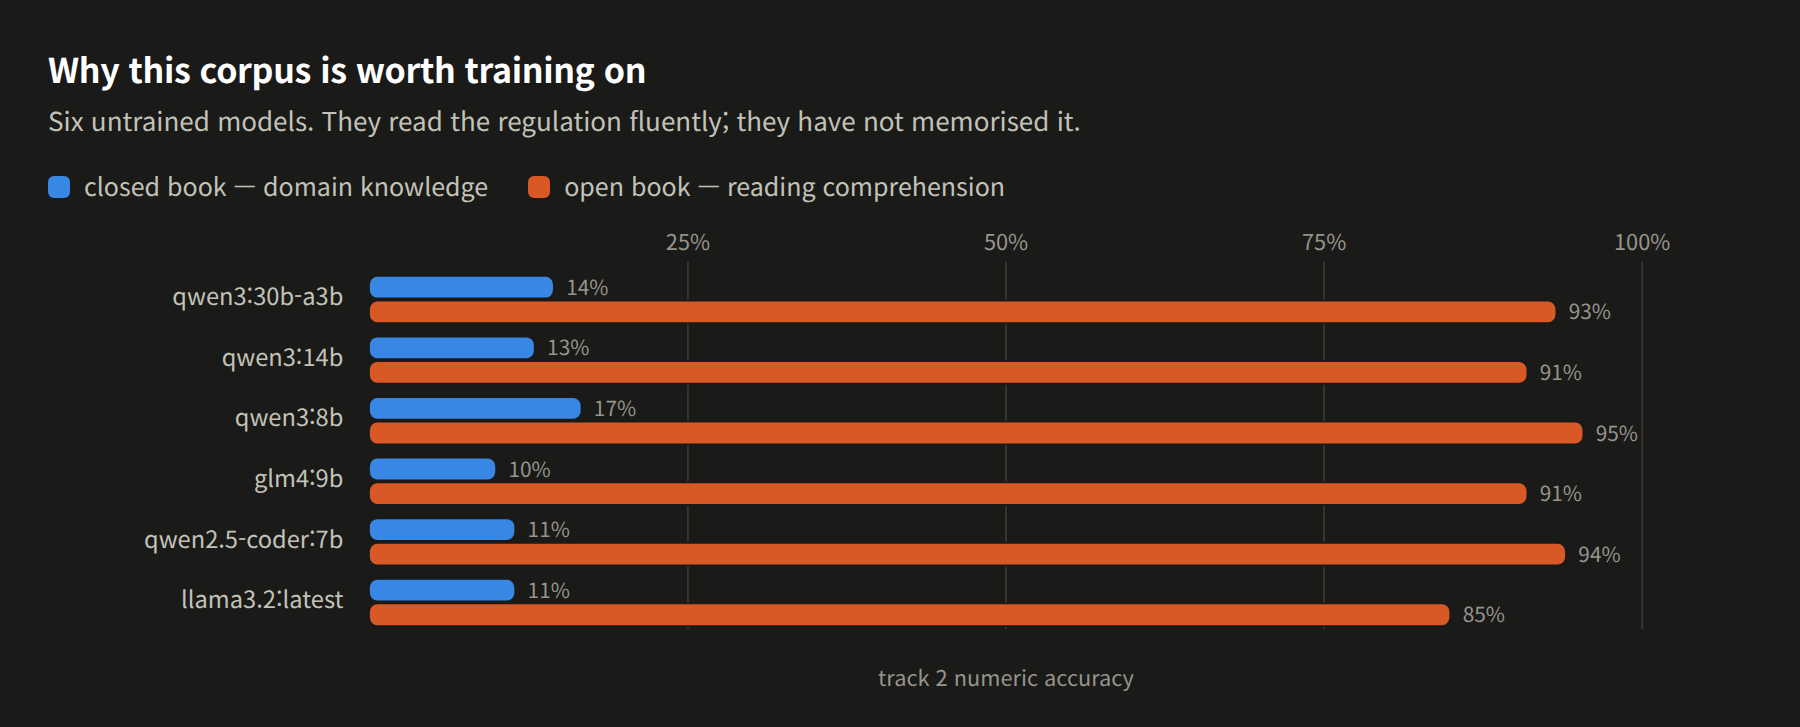
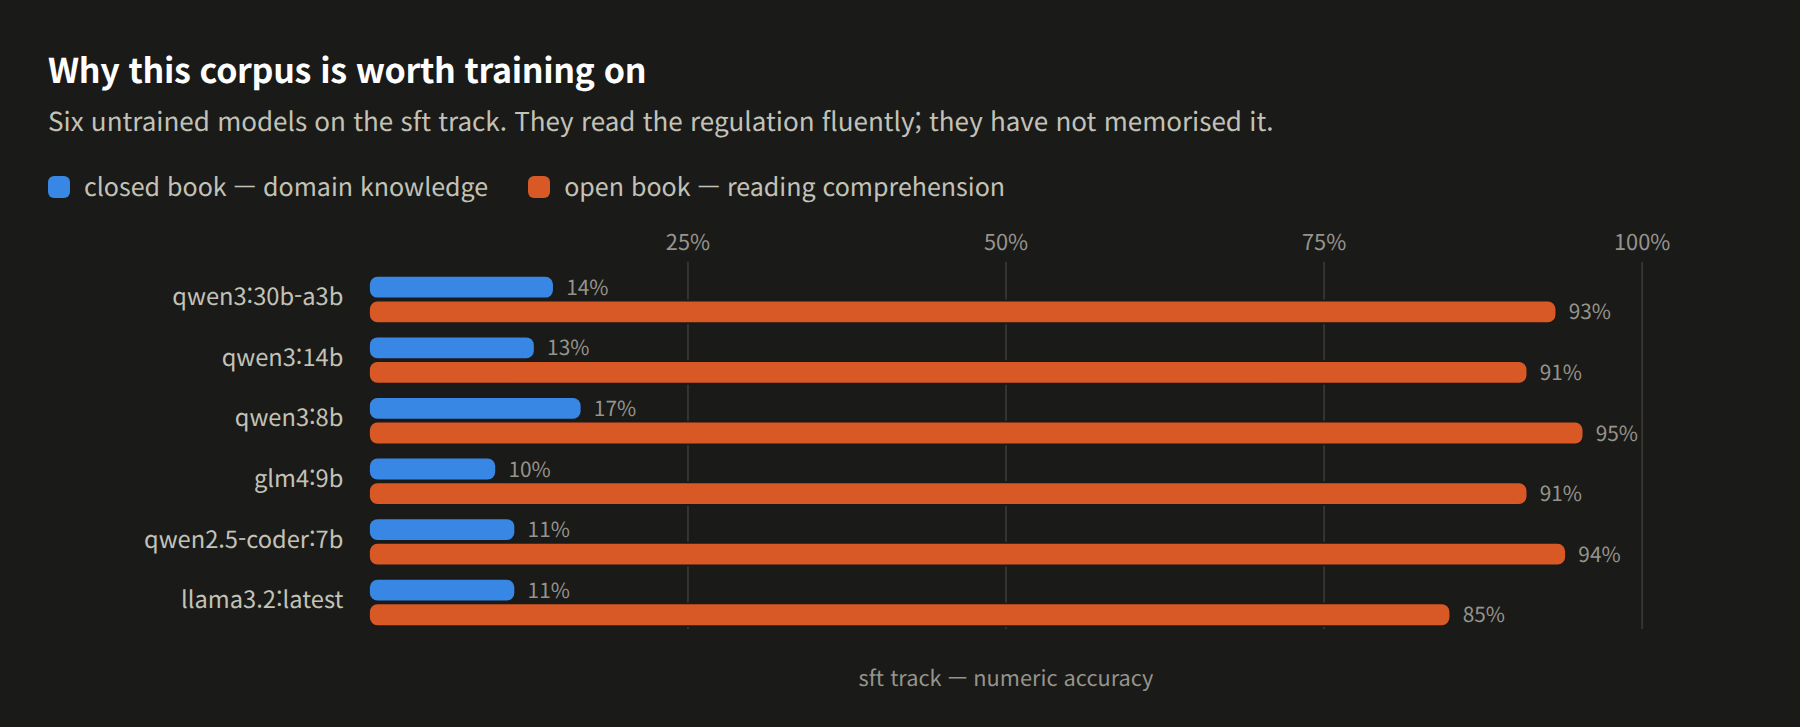
name the tracks instead of numbering them, in the docs and the charts

Changed region(s): [[0.1556, 0.1513, 0.7156, 0.1816], [0.4667, 0.9078, 0.6533, 0.9684]]

diff --git a/benchmark/kcbench/common.py b/benchmark/kcbench/common.py
@@ -34,20 +34,20 @@ BENCHMARK_NAME = "kcbench"
 BENCHMARK_VERSION = "v2"
 SCHEMA_VERSION = "kcbench-item-v2"
 
-# Track identity. The numbered tracks are numbered by the training stage each one
-# diagnoses -- 1 pre-training, 2 instruction tuning, 3 vision -- which is useful
-# to know and invisible in a bare number, so every track also answers to the name
-# its own items carry in their "track" field. Aliases resolve to the number
-# before anything else sees them: run files key on "1"/"2"/"3", and a run scored
-# as "sft" has to stay comparable with one scored as "2".
+# Track identity. Tracks are named for what they test, which is how every public
+# benchmark names its tasks. Three of them were numbered first -- 1 pre-training,
+# 2 instruction tuning, 3 vision -- and the numbers survive as the storage key:
+# run files are written with "1"/"2"/"3", so a run scored as "sft" has to stay
+# comparable with one scored as "2". Aliases resolve to the number on the way in
+# and the name comes back out in the logs.
 TRACK_NAMES: Dict[str, str] = {"1": "dapt", "2": "sft", "3": "vlm"}
 TRACK_ALIASES: Dict[str, str] = {
     "dapt": "1", "track1": "1", "1": "1",
     "sft": "2", "track2": "2", "2": "2",
     "vlm": "3", "track3": "3", "3": "3",
 }
-TRACKS_HELP = ("comma-separated. Numbered tracks answer to their name too: "
-               "1/dapt, 2/sft, 3/vlm")
+TRACKS_HELP = ("comma-separated names: dapt, sft, vlm. The numbers 1, 2 and 3 "
+               "still work for them")
 
 
 def resolve_tracks(spec: str) -> List[str]:
@@ -61,9 +61,8 @@ def resolve_tracks(spec: str) -> List[str]:
 
 
 def track_label(track: str) -> str:
-    """How a track is named in logs: the number, plus the name when it has one."""
-    name = TRACK_NAMES.get(track)
-    return f"{track} ({name})" if name else track
+    """How a track is named in logs and messages: by name, never by number."""
+    return TRACK_NAMES.get(track, track)
 
 
 DEFAULTS: Dict[str, Any] = {

diff --git a/benchmark/kcbench/run_matrix.py b/benchmark/kcbench/run_matrix.py
@@ -176,7 +176,7 @@ def main() -> int:
     ap.add_argument("--book", choices=["open", "closed", "both"],
                     help="open book gives the clause, closed book does not (default both)")
     ap.add_argument("--tracks", default="2",
-                    help="tracks to run (default 2/sft); names work too")
+                    help="tracks to run by name (default sft)")
     ap.add_argument("--lang", choices=["ko", "en"], default="ko")
     ap.add_argument("--repeats", type=int, help="samples per item")
     ap.add_argument("--limit", type=int, help="first N items per track")

diff --git a/benchmark/kcbench/build_all.py b/benchmark/kcbench/build_all.py
@@ -60,7 +60,7 @@ def main() -> int:
     add_common_args(ap)
     ap.add_argument("--fraction", type=float, help="holdout share per category")
     ap.add_argument("--tracks", default="1,2,3",
-                    help="tracks to build; names work too (dapt, sft, vlm)")
+                    help="tracks to build by name: dapt, sft, vlm")
     ap.add_argument("--mirror", metavar="FILE",
                     help="where to mirror holdout.json for run_corpus.py")
     ap.add_argument("--skip-holdout", action="store_true",

diff --git a/README.md b/README.md
@@ -27,7 +27,7 @@ Four charts, and between them they tell you what the benchmark is for.
 
 <picture>
   <source media="(prefers-color-scheme: dark)" srcset="doc/closed-vs-open-dark.png">
-  <img alt="Track 2 numeric accuracy for six untrained models, closed book versus open book. Open book every model scores above 84 percent; closed book none clears 17 percent." src="doc/closed-vs-open-light.png">
+  <img alt="Numeric accuracy on the sft track for six untrained models, closed book versus open book. Open book every model scores above 84 percent; closed book none clears 17 percent." src="doc/closed-vs-open-light.png">
 </picture>
 
 **Start here: is this corpus even worth training on?** Six models that never saw
@@ -37,8 +37,8 @@ they have not memorised any of it. That gap is the room fine-tuning has to work
 in, and it is why the closed-book number is the one this benchmark reports.
 
 <picture>
-  <source media="(prefers-color-scheme: dark)" srcset="doc/track1-perplexity-dark.png">
-  <img alt="Perplexity by document category, base versus after DAPT. Every one of the thirteen categories fell, the overall figure from 7.589 to 4.553." src="doc/track1-perplexity-light.png">
+  <source media="(prefers-color-scheme: dark)" srcset="doc/dapt-perplexity-dark.png">
+  <img alt="Perplexity by document category, base versus after DAPT. Every one of the thirteen categories fell, the overall figure from 7.589 to 4.553." src="doc/dapt-perplexity-light.png">
 </picture>
 
 **Did training move anything?** Perplexity on 5,381 held-out chunks fell 40%,
@@ -107,30 +107,29 @@ jointly present.
 ## Tracks
 
 A track is one self-contained set of items with its own answer type and its own
-score — the sense the word carries in TREC. Each one answers a different
-question, so they are read separately, never averaged into a single figure.
+score — the sense the word carries in TREC. Each answers a different question, so
+they are read separately, never averaged into a single figure. Tracks are named
+for what they test:
 
-The first three are numbered for the training stage they diagnose, and each also
-answers to that stage's name on the command line. `--tracks sft` and
-`--tracks 2` do the same thing; the name is there so you can tell from the
-command what you are measuring.
-
-| Track | Name | Items | Answer type | What it measures |
-|---|---|---:|---|---|
-| 1 | `dapt` | 5,381 chunks | perplexity | fit to held-out text — did pre-training take |
-| 2 | `sft` | 395 | numeric 320, nameset 75 | held-out QA — does it generalise to unseen regulation |
-| 3 | `vlm` | 10 | nameset 6, mapping 4 | vision: element types from renders, model-to-photo mapping |
-| — | `probe` | 400 | numeric 320, nameset 80 | training-side QA — did it acquire what it was taught. Diagnostic only |
-| — | `uc1_safety` | 157 | numeric 85, nameset 72 | safety regulation lookup |
-| — | `uc2_rebar_spec` | 150 | numeric 150 | specification limits and tolerances |
-| — | `uc3_bim_site` | 39 | label 39 | render and site photo judged together |
-| — | `uc4_faithfulness` | 160 | faithfulness 160 | abstention when the passage does not support an answer |
-| — | `uc5_incident` | 118 | nameset 118 | causes and controls from incident reports |
+| Track | Items | Answer type | What it measures |
+|---|---:|---|---|
+| `dapt` | 5,381 chunks | perplexity | fit to held-out text — did pre-training take |
+| `sft` | 395 | numeric 320, nameset 75 | held-out QA — does it generalise to unseen regulation |
+| `vlm` | 10 | nameset 6, mapping 4 | vision: element types from renders, model-to-photo mapping |
+| `probe` | 400 | numeric 320, nameset 80 | training-side QA — did it acquire what it was taught. Diagnostic only |
+| `uc1_safety` | 157 | numeric 85, nameset 72 | safety regulation lookup |
+| `uc2_rebar_spec` | 150 | numeric 150 | specification limits and tolerances |
+| `uc3_bim_site` | 39 | label 39 | render and site photo judged together |
+| `uc4_faithfulness` | 160 | faithfulness 160 | abstention when the passage does not support an answer |
+| `uc5_incident` | 118 | nameset 118 | causes and controls from incident reports |
 
 `--tracks uc` runs every use-case track. Use-case tracks are registered in
-`config.json`, so adding one takes a config entry rather than a code change,
-and they were never numbered — the numbering only ever meant "which training
-stage does this diagnose", which is a question the use-case tracks do not ask.
+`config.json`, so adding one takes a config entry rather than a code change.
+
+`dapt`, `sft` and `vlm` were originally numbered 1, 2 and 3, for the training
+stage each diagnoses. The numbers are still accepted — `--tracks 2` is `--tracks
+sft` — and run files still key on them, so scores from older runs stay
+comparable. Nothing else needs them.
 
 Closed book withholds the passage, so the item tests what the weights hold.
 Open book supplies it, so the item tests reading comprehension. Both are run
@@ -151,12 +150,12 @@ Python 3.11 or newer.
 
 ```
 pip install requests                        # building and scoring
-pip install torch transformers              # track 1 perplexity
+pip install torch transformers              # dapt perplexity
 pip install torch transformers peft         # fine-tuning under training/
 ```
 
-Scoring goes through an [Ollama](https://ollama.com) server for tracks 2 (sft),
-3 (vlm) and the use-case tracks. Track 1 loads the checkpoint locally instead, because
+Scoring goes through an [Ollama](https://ollama.com) server for `sft`, `vlm`
+and the use-case tracks. `dapt` loads the checkpoint locally instead, because
 perplexity needs logprobs over a fixed text rather than generation.
 
 ```
@@ -183,7 +182,7 @@ Score a model, once per book setting:
 ```
 python cb.py eval -m qwen3:8b       --tag base  --tracks sft --closed-book
 python cb.py eval -m my-finetune:v1 --tag ft-v1 --tracks sft --closed-book
-python cb.py ppl  -m ./out/my-dapt  --tag ft-v1-ppl        # track 1 (dapt)
+python cb.py ppl  -m ./out/my-dapt  --tag ft-v1-ppl        # the dapt track
 ```
 
 Compare them. This is the step that produces the answer:
@@ -227,7 +226,7 @@ benchmark/
     make_train_split.py  write the training split, holdout excluded
     verify_provenance.py prove where each item came from and that nothing trains on it
     evaluate.py          score a model over the generation tracks
-    perplexity.py        score track 1 locally
+    perplexity.py        score the dapt track locally
     compare.py           compare two runs, with a bootstrap significance test
     run_matrix.py        score several models and tabulate
     triage_items.py      pick the items a human should look at
@@ -278,17 +277,17 @@ prompt as well (`question_en`, and `answer_en` for numeric units), so
 
 | Metric | Items | Score |
 |---|---:|---:|
-| track 1 perplexity | 5,381 chunks | 7.589 |
-| track 2 numeric, closed book | 320 | 0.166 |
-| track 2 nameset F1, closed book | 75 | 0.000 |
-| track 2 numeric, open book | 320 | 0.953 |
-| track 2 nameset F1, open book | 75 | 0.582 |
+| `dapt` perplexity | 5,381 chunks | 7.589 |
+| `sft` numeric, closed book | 320 | 0.166 |
+| `sft` nameset F1, closed book | 75 | 0.000 |
+| `sft` numeric, open book | 320 | 0.953 |
+| `sft` nameset F1, open book | 75 | 0.582 |
 | probe numeric, closed book | 320 | 0.169 |
 | probe nameset F1, closed book | 80 | 0.000 |
 
 The closed-open gap is the corpus doing its job: the model reads these
 documents competently and knows almost nothing in them from memory. Probe and
-track 2 sit at the same number before training, which is what should happen —
+`sft` sit at the same number before training, which is what should happen —
 nothing has been learned yet, so trained-on and held-out documents are equally
 unfamiliar. They are expected to separate afterwards, and how they separate is
 the diagnosis.
@@ -297,7 +296,7 @@ After stage 1 (domain-adaptive pre-training, 836 steps, LoRA on Qwen3-8B):
 
 | Metric | Base | After DAPT | Change | Items |
 |---|---:|---:|---:|---:|
-| track 1 perplexity | 7.589 | 4.553 | -40.0% | 5,381 chunks |
+| `dapt` perplexity | 7.589 | 4.553 | -40.0% | 5,381 chunks |
 | probe numeric, closed book | 0.169 | 0.029 | -82.6% | 102 of 400 |
 | probe replies with no answer | 0.000 | 0.431 | — | 102 of 400 |
 
@@ -313,7 +312,7 @@ is what the two-stage design is for; scores for it will replace this table.
 Items are mined and verified by rule, not authored by domain experts. That
 makes the set cheap to rebuild and easy to audit — `cb.py verify`
 traces every item to its source span — but it also means the questions test
-recall of stated facts rather than judgement. Track 3 is small (10 items) and
+recall of stated facts rather than judgement. `vlm` is small (10 items) and
 should be read as a smoke test rather than a measurement. The use-case tracks
 range from 39 to 160 items, which is in line with per-task sizes in published
 benchmarks but still small enough that single-digit differences are noise;
@@ -321,7 +320,7 @@ benchmarks but still small enough that single-digit differences are noise;
 assumed.
 
 The corpus itself is not distributed. Source documents are Korean government
-standards and regulations, and the training split and track 1 chunks are
+standards and regulations, and the training split and `dapt` chunks are
 derived closely enough from them that redistribution is a licensing question
 rather than a technical one. The evaluation sets are included: they hold mined
 question-answer pairs and citations, not the source text.

diff --git a/benchmark/README.md b/benchmark/README.md
@@ -44,7 +44,7 @@ Build (`cb.py build` runs these in order):
 
 ```
 cb.py holdout      data/holdout.json              reserve the evaluation documents
-cb.py tracks       data/track{1,2,3}*.jsonl       mine items, record provenance
+cb.py tracks       data/track{1,2,3}*.jsonl       mine the dapt, sft and vlm items
 cb.py probe        data/probe_trained.jsonl       mine the training-side probe set
 cb.py usecases     data/uc*.jsonl                 use-case tracks from the config registry
 cb.py split        data/train/                    training split, holdout excluded
@@ -99,20 +99,20 @@ deleted once the track writes its score.
 
 ### Generalisation and acquisition
 
-Two sets, two questions. Track 2 is mined from held-out documents, so 75 percent
+Two sets, two questions. `sft` is mined from held-out documents, so 75 percent
 of its answers appear nowhere in the training data and cannot be learned — it
 measures generalisation to regulation the model never saw. `probe_trained.jsonl`
 is mined from the training side, where 83 percent of answers are present, and
 measures whether training put the corpus into the weights at all.
 
-| | track 2 | probe |
+| | `sft` | `probe` |
 |---|---|---|
 | Drawn from | held-out documents | trained-on documents |
 | Answer present in training data | 25% | 83% |
 | Measures | generalisation | acquisition |
 | Reporting | benchmark score | diagnostic only, never quote as a score |
 
-Read them together. Probe up and track 2 flat means the model memorised the
+Read them together. Probe up and `sft` flat means the model memorised the
 corpus without generalising; both flat means the training did not take at all.
 Probe rows carry `split: "train"` and `contamination: "intentional"` so the two
 cannot be mixed up.
@@ -194,7 +194,7 @@ What to change when the model or the machine changes:
 | `eval.max_consecutive_failures`, `eval.max_consecutive_empty` | when to abort rather than score a dead server |
 | `eval.ollama_base_url`, `eval.request_timeout` | where the server is and how long to wait |
 | `eval.models`, `eval.book` | defaults for `cb.py matrix` |
-| `perplexity.max_length` | tokens per chunk. Lower it if track 1 runs out of memory |
+| `perplexity.max_length` | tokens per chunk. Lower it if `dapt` runs out of memory |
 | `perplexity.dtype`, `perplexity.device` | `float16` and a different `device_map` for a smaller card |
 
 What to change when the question is statistical:
@@ -225,7 +225,7 @@ Re-baseline after any of them.
 
 ## The three tracks
 
-### Track 1 — DAPT, scored by perplexity
+### `dapt` — scored by perplexity
 
 Held-out regulation text, no labels. Perplexity is the earliest signal that
 domain-adaptive pre-training did anything: it moves long before answer accuracy
@@ -256,7 +256,7 @@ token-weighted figure (the one to compare), the per-chunk median, and a
 per-category breakdown. Qwen3-8B scores 7.589 over 5,381 chunks; a DAPT run that
 leaves that unmoved has not trained, whatever the downstream numbers say.
 
-### Track 2 — SFT, verifiable facts from held-out regulation
+### `sft` — verifiable facts from held-out regulation
 
 Questions whose answer is a string the source document contains. Two shapes:
 
@@ -282,7 +282,7 @@ Where no lead-in sentence exists, the governing clause heading (`제9조(전원 
 identifies the list instead — the passage is given to the model, so the heading
 names exactly one list within it.
 
-### Track 3 — VLM, IFC elements against the file itself
+### `vlm` — IFC elements against the file itself
 
 The model names the structural elements in a synthesised site photo, and
 `bim_elements.json` records exactly which elements went into that render.
@@ -317,10 +317,10 @@ is a config entry plus at most one builder function:
 
 | UC | File | Builder | Items | Answer key |
 |---|---|---|---:|---|
-| uc1_safety | `uc1_safety_qa.jsonl` | `doc_filtered_qa` | 157 | figures and lists from safety documents, reusing the track 2 miner |
+| uc1_safety | `uc1_safety_qa.jsonl` | `doc_filtered_qa` | 157 | figures and lists from safety documents, reusing the `sft` miner |
 | uc2_rebar_spec | `uc2_spec_threshold.jsonl` | `doc_filtered_qa` | 150 | numeric limits from design standards and specifications |
 | uc3_bim_site | `uc3_cross_image.jsonl` | `vlm_labels` | 39 | the judgement label attached at generation, `unknown` excluded |
-| uc4_faithfulness | `uc4_faithfulness.jsonl` | `context_swap` | 160 | track 2 items whose clause was swapped for an unrelated one |
+| uc4_faithfulness | `uc4_faithfulness.jsonl` | `context_swap` | 160 | `sft` items whose clause was swapped for an unrelated one |
 | uc5_incident | `uc5_incident.jsonl` | `missing_measures` | 118 | the measures withheld from a clause's own enumeration |
 
 Three of these need explanation.
@@ -346,7 +346,7 @@ the comparison labels skew heavily to `mismatch`. Items whose label is
 `unknown` are excluded (`exclude_labels`): they grade honest judgement as
 wrong, and removing them moved the same model's score 0.375 → 0.590. Read
 scores with the `by_task` split, and treat the track as weaker evidence than
-tracks 2 (sft) and 3 (vlm) until the labels have been human-reviewed.
+`sft` and `vlm` until the labels have been human-reviewed.
 
 **Contamination marking.** Safety work standards and most specification
 documents sit on the training side of the split, so UC1/UC2/UC5 items drawn from
@@ -502,7 +502,7 @@ to low hundreds.
 |---|---:|---:|---:|
 | AECBench (Chinese AEC) | ~4,800 | 23 | ~200 |
 | KMMLU | 35,030 | 45 subjects | ~780 (multiple choice) |
-| **kcbench** | ~1,300 | track 2 + probe + 6 use-case tracks | 39-400 |
+| **kcbench** | ~1,300 | `sft` + `probe` + 6 use-case tracks | 39-400 |
 
 Size decides what a track can settle. Taking the half-width of a 95% binomial
 interval near p = 0.8, which is the accuracy target these tracks were built to
@@ -543,9 +543,9 @@ never journalled, so a resumed run retries them.
   KMMLU both spent most of their effort exactly there). `cb.py triage` narrows
   what a reviewer has to read to roughly a tenth of the set, and `cb.py review`
   keeps the verdicts across rebuilds, but the judgement is a person's.
-- Track 2 numeric questions inherit whatever ambiguity the source clause has.
-- Track 3 is bounded by how few real building models the corpus holds.
-- Track 1 needs an HF checkpoint and a GPU; it cannot be scored through Ollama.
+- `sft` numeric questions inherit whatever ambiguity the source clause has.
+- `vlm` is bounded by how few real building models the corpus holds.
+- `dapt` needs an HF checkpoint and a GPU; it cannot be scored through Ollama.
 
 Design decisions are recorded with the measurement that motivated them; see
 "Precedent for each grading type" above for how the grading was checked against
